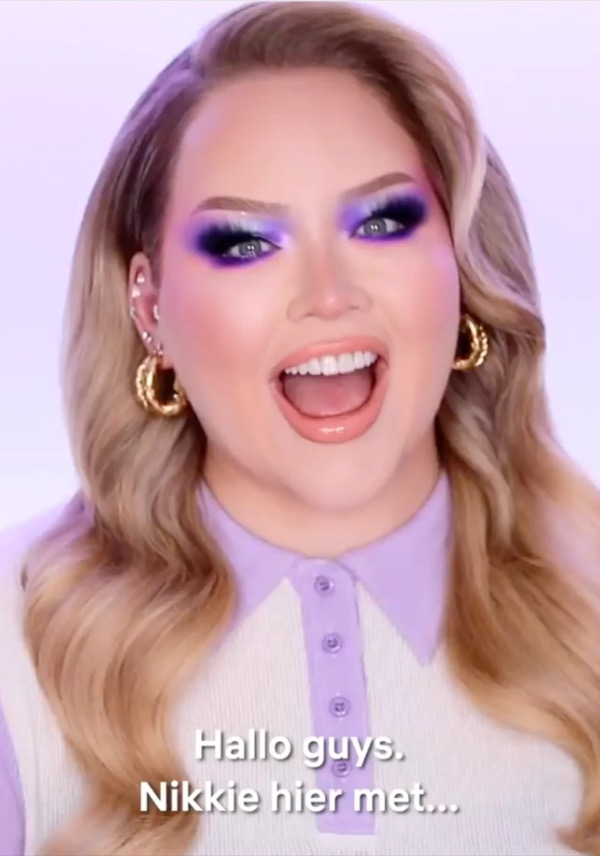
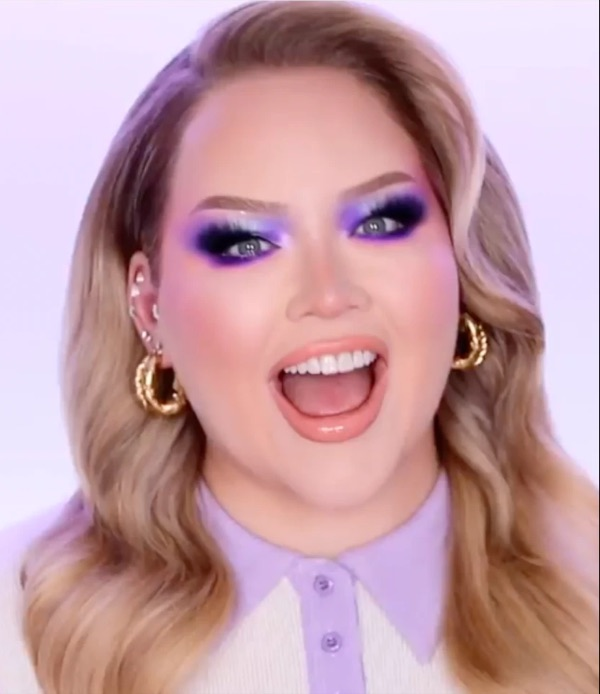
Preview: Nikkie-still zonder ondertitel, hoofd volledig in beeld

diff --git a/work/the-best-social/index.html b/work/the-best-social/index.html
@@ -29,7 +29,7 @@
 <link rel="preload" href="/assets/fonts/manrope-latin-400-normal.woff2" as="font" type="font/woff2" crossorigin>
   <link rel="preload" href="/assets/fonts/baloo-bhai-2-latin-800-normal.woff2" as="font" type="font/woff2" crossorigin>
   <link rel="stylesheet" href="/assets/fonts/fonts.css">
-<link rel="stylesheet" href="/assets/css/home.css?v=74e81bf0">
+<link rel="stylesheet" href="/assets/css/home.css?v=e1a2e201">
   
   <script data-goatcounter="https://imgroot.goatcounter.com/count" async src="https://gc.zgo.at/count.js"></script>
   <script src="/assets/site.js?v=927173bd" defer></script>
@@ -99,7 +99,7 @@
         <h3 class="cs-project-head"><span class="logo lg-netflix" role="img" aria-label="Netflix"></span><span class="cs-ptitle"><span lang="nl">‘Jij bent nu te zien’</span></span> <span class="cs-year">2021</span></h3>
         <p>Creative concept for the collaboration with NikkieTutorials, and the edit of the script for the campaign video.</p>
         <div class="cs-gallery cs-gallery-posts">
-        <figure class="cs-reel"><img width="600" height="856" src="/assets/img/work/netflix-nikkie.jpg" alt="NikkieTutorials in the Netflix video: Hallo guys, Nikkie hier met…"><figcaption><a class="reel-tag" href="https://www.instagram.com/tv/CTMzKzHqiFT/" target="_blank" rel="noopener noreferrer"><svg width="14" height="14" viewBox="0 0 24 24" fill="currentColor" aria-hidden="true"><path d="M7.0301.084c-1.2768.0602-2.1487.264-2.911.5634-.7888.3075-1.4575.72-2.1228 1.3877-.6652.6677-1.075 1.3368-1.3802 2.127-.2954.7638-.4956 1.6365-.552 2.914-.0564 1.2775-.0689 1.6882-.0626 4.947.0062 3.2586.0206 3.6671.0825 4.9473.061 1.2765.264 2.1482.5635 2.9107.308.7889.72 1.4573 1.388 2.1228.6679.6655 1.3365 1.0743 2.1285 1.38.7632.295 1.6361.4961 2.9134.552 1.2773.056 1.6884.069 4.9462.0627 3.2578-.0062 3.668-.0207 4.9478-.0814 1.28-.0607 2.147-.2652 2.9098-.5633.7889-.3086 1.4578-.72 2.1228-1.3881.665-.6682 1.0745-1.3378 1.3795-2.1284.2957-.7632.4966-1.636.552-2.9124.056-1.2809.0692-1.6898.063-4.948-.0063-3.2583-.021-3.6668-.0817-4.9465-.0607-1.2797-.264-2.1487-.5633-2.9117-.3084-.7889-.72-1.4568-1.3876-2.1228C21.2982 1.33 20.628.9208 19.8378.6165 19.074.321 18.2017.1197 16.9244.0645 15.6471.0093 15.236-.005 11.977.0014 8.718.0076 8.31.0215 7.0301.0839m.1402 21.6932c-1.17-.0509-1.8053-.2453-2.2287-.408-.5606-.216-.96-.4771-1.3819-.895-.422-.4178-.6811-.8186-.9-1.378-.1644-.4234-.3624-1.058-.4171-2.228-.0595-1.2645-.072-1.6442-.079-4.848-.007-3.2037.0053-3.583.0607-4.848.05-1.169.2456-1.805.408-2.2282.216-.5613.4762-.96.895-1.3816.4188-.4217.8184-.6814 1.3783-.9003.423-.1651 1.0575-.3614 2.227-.4171 1.2655-.06 1.6447-.072 4.848-.079 3.2033-.007 3.5835.005 4.8495.0608 1.169.0508 1.8053.2445 2.228.408.5608.216.96.4754 1.3816.895.4217.4194.6816.8176.9005 1.3787.1653.4217.3617 1.056.4169 2.2263.0602 1.2655.0739 1.645.0796 4.848.0058 3.203-.0055 3.5834-.061 4.848-.051 1.17-.245 1.8055-.408 2.2294-.216.5604-.4763.96-.8954 1.3814-.419.4215-.8181.6811-1.3783.9-.4224.1649-1.0577.3617-2.2262.4174-1.2656.0595-1.6448.072-4.8493.079-3.2045.007-3.5825-.006-4.848-.0608M16.953 5.5864A1.44 1.44 0 1 0 18.39 4.144a1.44 1.44 0 0 0-1.437 1.4424M5.8385 12.012c.0067 3.4032 2.7706 6.1557 6.173 6.1493 3.4026-.0065 6.157-2.7701 6.1506-6.1733-.0065-3.4032-2.771-6.1565-6.174-6.1498-3.403.0067-6.156 2.771-6.1496 6.1738M8 12.0077a4 4 0 1 1 4.008 3.9921A3.9996 3.9996 0 0 1 8 12.0077"></path></svg>Post on Instagram<span class="sr-only"> (opens in a new tab)</span></a></figcaption></figure>
+        <figure class="cs-reel"><img width="600" height="694" src="/assets/img/work/netflix-nikkie.jpg?v=3" alt="NikkieTutorials in the Netflix video: Hallo guys, Nikkie hier met…"><figcaption><a class="reel-tag" href="https://www.instagram.com/tv/CTMzKzHqiFT/" target="_blank" rel="noopener noreferrer"><svg width="14" height="14" viewBox="0 0 24 24" fill="currentColor" aria-hidden="true"><path d="M7.0301.084c-1.2768.0602-2.1487.264-2.911.5634-.7888.3075-1.4575.72-2.1228 1.3877-.6652.6677-1.075 1.3368-1.3802 2.127-.2954.7638-.4956 1.6365-.552 2.914-.0564 1.2775-.0689 1.6882-.0626 4.947.0062 3.2586.0206 3.6671.0825 4.9473.061 1.2765.264 2.1482.5635 2.9107.308.7889.72 1.4573 1.388 2.1228.6679.6655 1.3365 1.0743 2.1285 1.38.7632.295 1.6361.4961 2.9134.552 1.2773.056 1.6884.069 4.9462.0627 3.2578-.0062 3.668-.0207 4.9478-.0814 1.28-.0607 2.147-.2652 2.9098-.5633.7889-.3086 1.4578-.72 2.1228-1.3881.665-.6682 1.0745-1.3378 1.3795-2.1284.2957-.7632.4966-1.636.552-2.9124.056-1.2809.0692-1.6898.063-4.948-.0063-3.2583-.021-3.6668-.0817-4.9465-.0607-1.2797-.264-2.1487-.5633-2.9117-.3084-.7889-.72-1.4568-1.3876-2.1228C21.2982 1.33 20.628.9208 19.8378.6165 19.074.321 18.2017.1197 16.9244.0645 15.6471.0093 15.236-.005 11.977.0014 8.718.0076 8.31.0215 7.0301.0839m.1402 21.6932c-1.17-.0509-1.8053-.2453-2.2287-.408-.5606-.216-.96-.4771-1.3819-.895-.422-.4178-.6811-.8186-.9-1.378-.1644-.4234-.3624-1.058-.4171-2.228-.0595-1.2645-.072-1.6442-.079-4.848-.007-3.2037.0053-3.583.0607-4.848.05-1.169.2456-1.805.408-2.2282.216-.5613.4762-.96.895-1.3816.4188-.4217.8184-.6814 1.3783-.9003.423-.1651 1.0575-.3614 2.227-.4171 1.2655-.06 1.6447-.072 4.848-.079 3.2033-.007 3.5835.005 4.8495.0608 1.169.0508 1.8053.2445 2.228.408.5608.216.96.4754 1.3816.895.4217.4194.6816.8176.9005 1.3787.1653.4217.3617 1.056.4169 2.2263.0602 1.2655.0739 1.645.0796 4.848.0058 3.203-.0055 3.5834-.061 4.848-.051 1.17-.245 1.8055-.408 2.2294-.216.5604-.4763.96-.8954 1.3814-.419.4215-.8181.6811-1.3783.9-.4224.1649-1.0577.3617-2.2262.4174-1.2656.0595-1.6448.072-4.8493.079-3.2045.007-3.5825-.006-4.848-.0608M16.953 5.5864A1.44 1.44 0 1 0 18.39 4.144a1.44 1.44 0 0 0-1.437 1.4424M5.8385 12.012c.0067 3.4032 2.7706 6.1557 6.173 6.1493 3.4026-.0065 6.157-2.7701 6.1506-6.1733-.0065-3.4032-2.771-6.1565-6.174-6.1498-3.403.0067-6.156 2.771-6.1496 6.1738M8 12.0077a4 4 0 1 1 4.008 3.9921A3.9996 3.9996 0 0 1 8 12.0077"></path></svg>Post on Instagram<span class="sr-only"> (opens in a new tab)</span></a></figcaption></figure>
       </div>
       </div>
       <div class="cs-project">

diff --git a/index.html b/index.html
@@ -32,7 +32,7 @@
 <link rel="preload" href="/assets/fonts/manrope-latin-400-normal.woff2" as="font" type="font/woff2" crossorigin>
   <link rel="preload" href="/assets/fonts/baloo-bhai-2-latin-800-normal.woff2" as="font" type="font/woff2" crossorigin>
   <link rel="stylesheet" href="/assets/fonts/fonts.css">
-<link rel="stylesheet" href="/assets/css/home.css?v=74e81bf0">
+<link rel="stylesheet" href="/assets/css/home.css?v=e1a2e201">
   <script type="application/ld+json">{"@context": "https://schema.org", "@graph": [{"@type": "Person", "@id": "https://imgroot.nl/#evert", "name": "Evert Groot", "alternateName": ["DJ Absoluut", "Absoluut"], "url": "https://imgroot.nl/", "image": "https://imgroot.nl/assets/img/evert-groot-portrait.jpg", "email": "mailto:evert@imgroot.nl", "jobTitle": ["Content Strategist", "DJ", "Content Creator", "Event Organizer"], "knowsAbout": ["Content strategy", "Social media strategy", "Creative direction", "Short-form video", "Pop music", "DJing", "Wedding DJ", "Event organizing", "Queer nightlife"], "areaServed": [{"@type": "Country", "name": "Netherlands"}, {"@type": "Country", "name": "Italy"}], "founder": {"@id": "https://imgroot.nl/#bops"}, "sameAs": ["https://www.instagram.com/absoluut/", "https://www.tiktok.com/@absoluutdj", "https://www.linkedin.com/in/evertgroot", "https://soundcloud.com/absoluut", "https://ra.co/dj/absoluut"], "makesOffer": [{"@type": "Offer", "itemOffered": {"@type": "Service", "name": "Content strategy and creative direction", "areaServed": ["NL", "IT"]}}, {"@type": "Offer", "itemOffered": {"@type": "Service", "name": "DJ for clubs, festivals, brand events and weddings", "areaServed": ["NL", "BE", "IT"]}}, {"@type": "Offer", "itemOffered": {"@type": "Service", "name": "Event organizing", "areaServed": ["NL", "IT"]}}, {"@type": "Offer", "itemOffered": {"@type": "Service", "name": "Creator partnerships and short-form video", "areaServed": ["NL", "IT"]}}]}, {"@type": "Organization", "@id": "https://imgroot.nl/#bops", "name": "BOPS", "description": "Queer pop party at The Other Side, Amsterdam", "url": "https://www.instagram.com/bops.ams/", "sameAs": ["https://www.instagram.com/bops.ams/"]}, {"@type": "WebSite", "@id": "https://imgroot.nl/#website", "url": "https://imgroot.nl/", "name": "Evert Groot", "inLanguage": ["en", "nl", "it"], "publisher": {"@id": "https://imgroot.nl/#evert"}}]}</script>
   <script data-goatcounter="https://imgroot.goatcounter.com/count" async src="https://gc.zgo.at/count.js"></script>
   <script src="/assets/site.js?v=927173bd" defer></script>
@@ -146,7 +146,7 @@
     <h2 id="work-title">Selected Work</h2>
     <ul class="wk-grid">
         <li><a class="wk-card" href="/work/the-best-social/">
-          <span class="wk-media"><img width="600" height="856" loading="lazy" decoding="async" src="/assets/img/work/netflix-nikkie.jpg" alt="NikkieTutorials in the Netflix video"></span>
+          <span class="wk-media"><img width="600" height="694" loading="lazy" decoding="async" src="/assets/img/work/netflix-nikkie.jpg?v=3" alt="NikkieTutorials in the Netflix video"></span>
           <span class="wk-client logos"><span class="logo lg-tbs" role="img" aria-label="The Best Social Studio"></span></span>
           <h3>Freelance Content &amp; Copy</h3>
           <p>Creative, copy and briefings for Netflix, TUI, Vue, Phantasialand and more.</p>

diff --git a/it/index.html b/it/index.html
@@ -32,7 +32,7 @@
 <link rel="preload" href="/assets/fonts/manrope-latin-400-normal.woff2" as="font" type="font/woff2" crossorigin>
   <link rel="preload" href="/assets/fonts/baloo-bhai-2-latin-800-normal.woff2" as="font" type="font/woff2" crossorigin>
   <link rel="stylesheet" href="/assets/fonts/fonts.css">
-<link rel="stylesheet" href="/assets/css/home.css?v=74e81bf0">
+<link rel="stylesheet" href="/assets/css/home.css?v=e1a2e201">
   <script type="application/ld+json">{"@context": "https://schema.org", "@graph": [{"@type": "Person", "@id": "https://imgroot.nl/#evert", "name": "Evert Groot", "alternateName": ["DJ Absoluut", "Absoluut"], "url": "https://imgroot.nl/", "image": "https://imgroot.nl/assets/img/evert-groot-portrait.jpg", "email": "mailto:evert@imgroot.nl", "jobTitle": ["Content Strategist", "DJ", "Content Creator", "Event Organizer"], "knowsAbout": ["Content strategy", "Social media strategy", "Creative direction", "Short-form video", "Pop music", "DJing", "Wedding DJ", "Event organizing", "Queer nightlife"], "areaServed": [{"@type": "Country", "name": "Netherlands"}, {"@type": "Country", "name": "Italy"}], "founder": {"@id": "https://imgroot.nl/#bops"}, "sameAs": ["https://www.instagram.com/absoluut/", "https://www.tiktok.com/@absoluutdj", "https://www.linkedin.com/in/evertgroot", "https://soundcloud.com/absoluut", "https://ra.co/dj/absoluut"], "makesOffer": [{"@type": "Offer", "itemOffered": {"@type": "Service", "name": "Strategia dei contenuti e direzione creativa", "areaServed": ["NL", "IT"]}}, {"@type": "Offer", "itemOffered": {"@type": "Service", "name": "DJ per club, festival, eventi aziendali e matrimoni", "areaServed": ["NL", "BE", "IT"]}}, {"@type": "Offer", "itemOffered": {"@type": "Service", "name": "Organizzazione di eventi", "areaServed": ["NL", "IT"]}}, {"@type": "Offer", "itemOffered": {"@type": "Service", "name": "Collaborazioni con creator e video brevi", "areaServed": ["NL", "IT"]}}]}, {"@type": "Organization", "@id": "https://imgroot.nl/#bops", "name": "BOPS", "description": "Queer pop party at The Other Side, Amsterdam", "url": "https://www.instagram.com/bops.ams/", "sameAs": ["https://www.instagram.com/bops.ams/"]}, {"@type": "WebSite", "@id": "https://imgroot.nl/#website", "url": "https://imgroot.nl/", "name": "Evert Groot", "inLanguage": ["en", "nl", "it"], "publisher": {"@id": "https://imgroot.nl/#evert"}}]}</script>
   <script data-goatcounter="https://imgroot.goatcounter.com/count" async src="https://gc.zgo.at/count.js"></script>
   <script src="/assets/site.js?v=927173bd" defer></script>

diff --git a/nl/index.html b/nl/index.html
@@ -32,7 +32,7 @@
 <link rel="preload" href="/assets/fonts/manrope-latin-400-normal.woff2" as="font" type="font/woff2" crossorigin>
   <link rel="preload" href="/assets/fonts/baloo-bhai-2-latin-800-normal.woff2" as="font" type="font/woff2" crossorigin>
   <link rel="stylesheet" href="/assets/fonts/fonts.css">
-<link rel="stylesheet" href="/assets/css/home.css?v=74e81bf0">
+<link rel="stylesheet" href="/assets/css/home.css?v=e1a2e201">
   <script type="application/ld+json">{"@context": "https://schema.org", "@graph": [{"@type": "Person", "@id": "https://imgroot.nl/#evert", "name": "Evert Groot", "alternateName": ["DJ Absoluut", "Absoluut"], "url": "https://imgroot.nl/", "image": "https://imgroot.nl/assets/img/evert-groot-portrait.jpg", "email": "mailto:evert@imgroot.nl", "jobTitle": ["Content Strategist", "DJ", "Content Creator", "Event Organizer"], "knowsAbout": ["Content strategy", "Social media strategy", "Creative direction", "Short-form video", "Pop music", "DJing", "Wedding DJ", "Event organizing", "Queer nightlife"], "areaServed": [{"@type": "Country", "name": "Netherlands"}, {"@type": "Country", "name": "Italy"}], "founder": {"@id": "https://imgroot.nl/#bops"}, "sameAs": ["https://www.instagram.com/absoluut/", "https://www.tiktok.com/@absoluutdj", "https://www.linkedin.com/in/evertgroot", "https://soundcloud.com/absoluut", "https://ra.co/dj/absoluut"], "makesOffer": [{"@type": "Offer", "itemOffered": {"@type": "Service", "name": "Contentstrategie en creatieve regie", "areaServed": ["NL", "IT"]}}, {"@type": "Offer", "itemOffered": {"@type": "Service", "name": "DJ voor clubs, festivals, brand events en bruiloften", "areaServed": ["NL", "BE", "IT"]}}, {"@type": "Offer", "itemOffered": {"@type": "Service", "name": "Events organiseren", "areaServed": ["NL", "IT"]}}, {"@type": "Offer", "itemOffered": {"@type": "Service", "name": "Creator-samenwerkingen en short-form video", "areaServed": ["NL", "IT"]}}]}, {"@type": "Organization", "@id": "https://imgroot.nl/#bops", "name": "BOPS", "description": "Queer pop party at The Other Side, Amsterdam", "url": "https://www.instagram.com/bops.ams/", "sameAs": ["https://www.instagram.com/bops.ams/"]}, {"@type": "WebSite", "@id": "https://imgroot.nl/#website", "url": "https://imgroot.nl/", "name": "Evert Groot", "inLanguage": ["en", "nl", "it"], "publisher": {"@id": "https://imgroot.nl/#evert"}}]}</script>
   <script data-goatcounter="https://imgroot.goatcounter.com/count" async src="https://gc.zgo.at/count.js"></script>
   <script src="/assets/site.js?v=927173bd" defer></script>

diff --git a/work/forward/index.html b/work/forward/index.html
@@ -29,7 +29,7 @@
 <link rel="preload" href="/assets/fonts/manrope-latin-400-normal.woff2" as="font" type="font/woff2" crossorigin>
   <link rel="preload" href="/assets/fonts/baloo-bhai-2-latin-800-normal.woff2" as="font" type="font/woff2" crossorigin>
   <link rel="stylesheet" href="/assets/fonts/fonts.css">
-<link rel="stylesheet" href="/assets/css/home.css?v=74e81bf0">
+<link rel="stylesheet" href="/assets/css/home.css?v=e1a2e201">
   
   <script data-goatcounter="https://imgroot.goatcounter.com/count" async src="https://gc.zgo.at/count.js"></script>
   <script src="/assets/site.js?v=927173bd" defer></script>

diff --git a/work/soa-aids/index.html b/work/soa-aids/index.html
@@ -29,7 +29,7 @@
 <link rel="preload" href="/assets/fonts/manrope-latin-400-normal.woff2" as="font" type="font/woff2" crossorigin>
   <link rel="preload" href="/assets/fonts/baloo-bhai-2-latin-800-normal.woff2" as="font" type="font/woff2" crossorigin>
   <link rel="stylesheet" href="/assets/fonts/fonts.css">
-<link rel="stylesheet" href="/assets/css/home.css?v=74e81bf0">
+<link rel="stylesheet" href="/assets/css/home.css?v=e1a2e201">
   
   <script data-goatcounter="https://imgroot.goatcounter.com/count" async src="https://gc.zgo.at/count.js"></script>
   <script src="/assets/site.js?v=927173bd" defer></script>

diff --git a/assets/css/home.css b/assets/css/home.css
@@ -442,3 +442,4 @@ a.reel-tag:focus-visible{outline:2px solid #7bd6e0;outline-offset:2px}
 .cs-project + .cs-project{padding-top:clamp(32px,4vw,48px);border-top:1px solid rgba(255,255,255,.12)}
 .cs-gallery-posts .cs-reel:only-child{max-width:360px}
 .cs-project-head .cs-ptitle{margin-left:0;color:#fff;letter-spacing:-0.02em}
+.wk-media img[src*="netflix-nikkie"]{object-position:50% 0}
